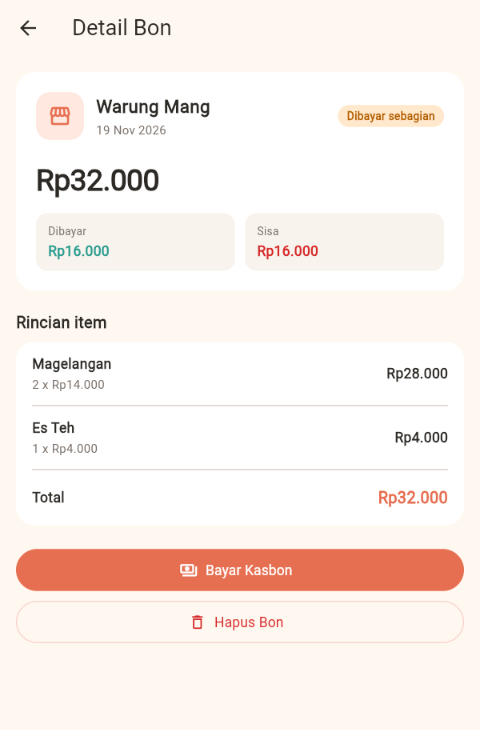
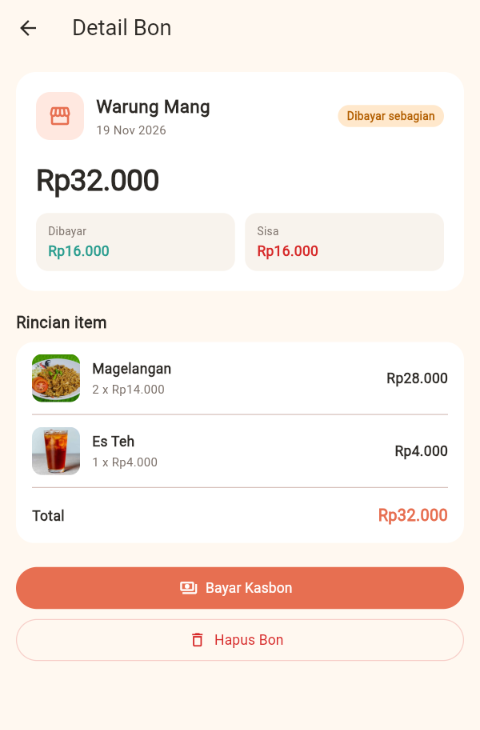
Menu bergambar: Magelangan, Es Teh, Gorengan

diff --git a/lib/main.dart b/lib/main.dart
@@ -10,6 +10,44 @@ const Color kMuted = Color(0xFF7A6F68);
 const Color kGreen = Color(0xFF2A9D8F);
 const Color kRed = Color(0xFFD62828);
 
+class MenuCepat {
+  final String nama;
+  final int harga;
+  final String gambar;
+
+  const MenuCepat({
+    required this.nama,
+    required this.harga,
+    required this.gambar,
+  });
+}
+
+const List<MenuCepat> kMenuCepat = [
+  MenuCepat(
+    nama: 'Magelangan',
+    harga: 14000,
+    gambar: 'assets/images/magelangan.jpg',
+  ),
+  MenuCepat(
+    nama: 'Es Teh',
+    harga: 4000,
+    gambar: 'assets/images/es_teh.jpg',
+  ),
+  MenuCepat(
+    nama: 'Gorengan',
+    harga: 1000,
+    gambar: 'assets/images/gorengan.jpg',
+  ),
+];
+
+String? gambarMenu(String nama) {
+  final n = nama.toLowerCase();
+  for (final menu in kMenuCepat) {
+    if (n.contains(menu.nama.toLowerCase())) return menu.gambar;
+  }
+  return null;
+}
+
 void main() async {
   WidgetsFlutterBinding.ensureInitialized();
   final prefs = await SharedPreferences.getInstance();
@@ -757,6 +795,7 @@ class _BonDetailScreenState extends State<BonDetailScreen> {
               children: [
                 ...List.generate(bon.items.length, (index) {
                   final item = bon.items[index];
+                  final gambar = gambarMenu(item.nama);
                   return Column(
                     children: [
                       if (index > 0)
@@ -768,6 +807,18 @@ class _BonDetailScreenState extends State<BonDetailScreen> {
                         ),
                         child: Row(
                           children: [
+                            if (gambar != null) ...[
+                              ClipRRect(
+                                borderRadius: BorderRadius.circular(10),
+                                child: Image.asset(
+                                  gambar,
+                                  width: 48,
+                                  height: 48,
+                                  fit: BoxFit.cover,
+                                ),
+                              ),
+                              const SizedBox(width: 12),
+                            ],
                             Expanded(
                               child: Column(
                                 crossAxisAlignment: CrossAxisAlignment.start,
@@ -1112,22 +1163,21 @@ class _BonFormScreenState extends State<BonFormScreen> {
             style: TextStyle(fontSize: 12, color: kMuted),
           ),
           const SizedBox(height: 10),
-          Wrap(
-            spacing: 8,
-            runSpacing: 8,
+          Row(
+            crossAxisAlignment: CrossAxisAlignment.start,
             children: [
-              ActionChip(
-                label: const Text('Magelangan 14k'),
-                onPressed: () => _tambahCepat('Magelangan', 14000),
-              ),
-              ActionChip(
-                label: const Text('Es Teh 4k'),
-                onPressed: () => _tambahCepat('Es Teh', 4000),
-              ),
-              ActionChip(
-                label: const Text('Sate 10k'),
-                onPressed: () => _tambahCepat('Sate', 10000),
-              ),
+              for (var i = 0; i < kMenuCepat.length; i++) ...[
+                if (i > 0) const SizedBox(width: 8),
+                Expanded(
+                  child: _MenuCepatCard(
+                    menu: kMenuCepat[i],
+                    onTap: () => _tambahCepat(
+                      kMenuCepat[i].nama,
+                      kMenuCepat[i].harga,
+                    ),
+                  ),
+                ),
+              ],
             ],
           ),
           const SizedBox(height: 14),
@@ -1343,6 +1393,57 @@ class _QtyStepper extends StatelessWidget {
             padding: EdgeInsets.zero,
           ),
         ],
+      ),
+    );
+  }
+}
+
+class _MenuCepatCard extends StatelessWidget {
+  final MenuCepat menu;
+  final VoidCallback onTap;
+
+  const _MenuCepatCard({required this.menu, required this.onTap});
+
+  @override
+  Widget build(BuildContext context) {
+    return Material(
+      color: Colors.white,
+      clipBehavior: Clip.antiAlias,
+      shape: RoundedRectangleBorder(
+        borderRadius: BorderRadius.circular(14),
+        side: const BorderSide(color: Color(0x142D2A26)),
+      ),
+      child: InkWell(
+        onTap: onTap,
+        child: Column(
+          crossAxisAlignment: CrossAxisAlignment.stretch,
+          children: [
+            Image.asset(menu.gambar, height: 62, fit: BoxFit.cover),
+            Padding(
+              padding: const EdgeInsets.fromLTRB(9, 7, 9, 9),
+              child: Column(
+                crossAxisAlignment: CrossAxisAlignment.start,
+                children: [
+                  Text(
+                    menu.nama,
+                    maxLines: 1,
+                    overflow: TextOverflow.ellipsis,
+                    style: const TextStyle(
+                      fontSize: 12,
+                      fontWeight: FontWeight.w700,
+                      color: kText,
+                    ),
+                  ),
+                  const SizedBox(height: 1),
+                  Text(
+                    rupiah(menu.harga),
+                    style: const TextStyle(fontSize: 11, color: kMuted),
+                  ),
+                ],
+              ),
+            ),
+          ],
+        ),
       ),
     );
   }

diff --git a/README.md b/README.md
@@ -7,8 +7,9 @@ KasbonKu adalah aplikasi Flutter untuk mencatat kasbon (utang) pribadi saat memb
 **Demo online:** <https://kila1232.github.io/kasbonku/>
 
 <p align="center">
-  <img src="docs/screenshots/home.png" alt="Halaman utama KasbonKu" width="280" />
-  <img src="docs/screenshots/detail.png" alt="Detail bon dan rincian item" width="280" />
+  <img src="docs/screenshots/home.png" alt="Halaman utama KasbonKu" width="250" />
+  <img src="docs/screenshots/form.png" alt="Tambah bon dengan menu bergambar" width="250" />
+  <img src="docs/screenshots/detail.png" alt="Detail bon dan rincian item" width="250" />
 </p>
 
 ## Masalah yang diselesaikan
@@ -21,7 +22,7 @@ KasbonKu adalah aplikasi Flutter untuk mencatat kasbon (utang) pribadi saat memb
 ## Fitur
 
 - Catat bon baru: nama warung, item, qty, harga satuan, dan catatan.
-- Menu cepat untuk item yang sering dibeli (Magelangan, Es Teh, Sate).
+- Menu cepat bergambar: Magelangan Rp14.000, Es Teh Rp4.000, dan Gorengan Rp1.000.
 - Subtotal dan total dihitung otomatis.
 - Pembayaran penuh atau sebagian, dengan sisa dan status yang diperbarui otomatis.
 - Status bon: **Belum bayar**, **Dibayar sebagian**, dan **Lunas**.
